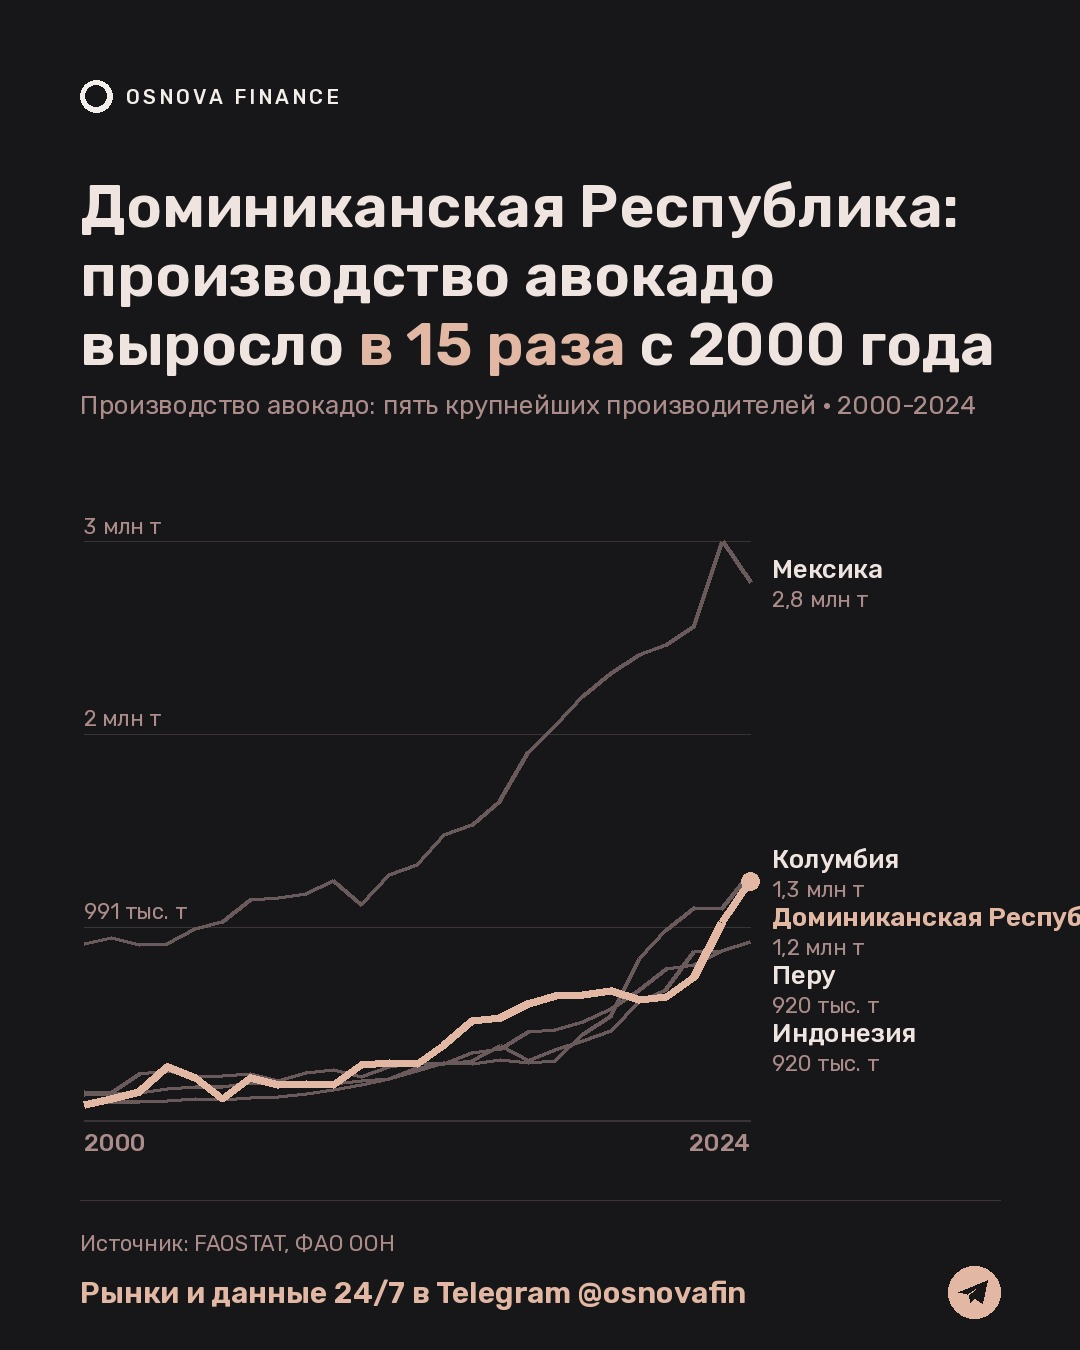
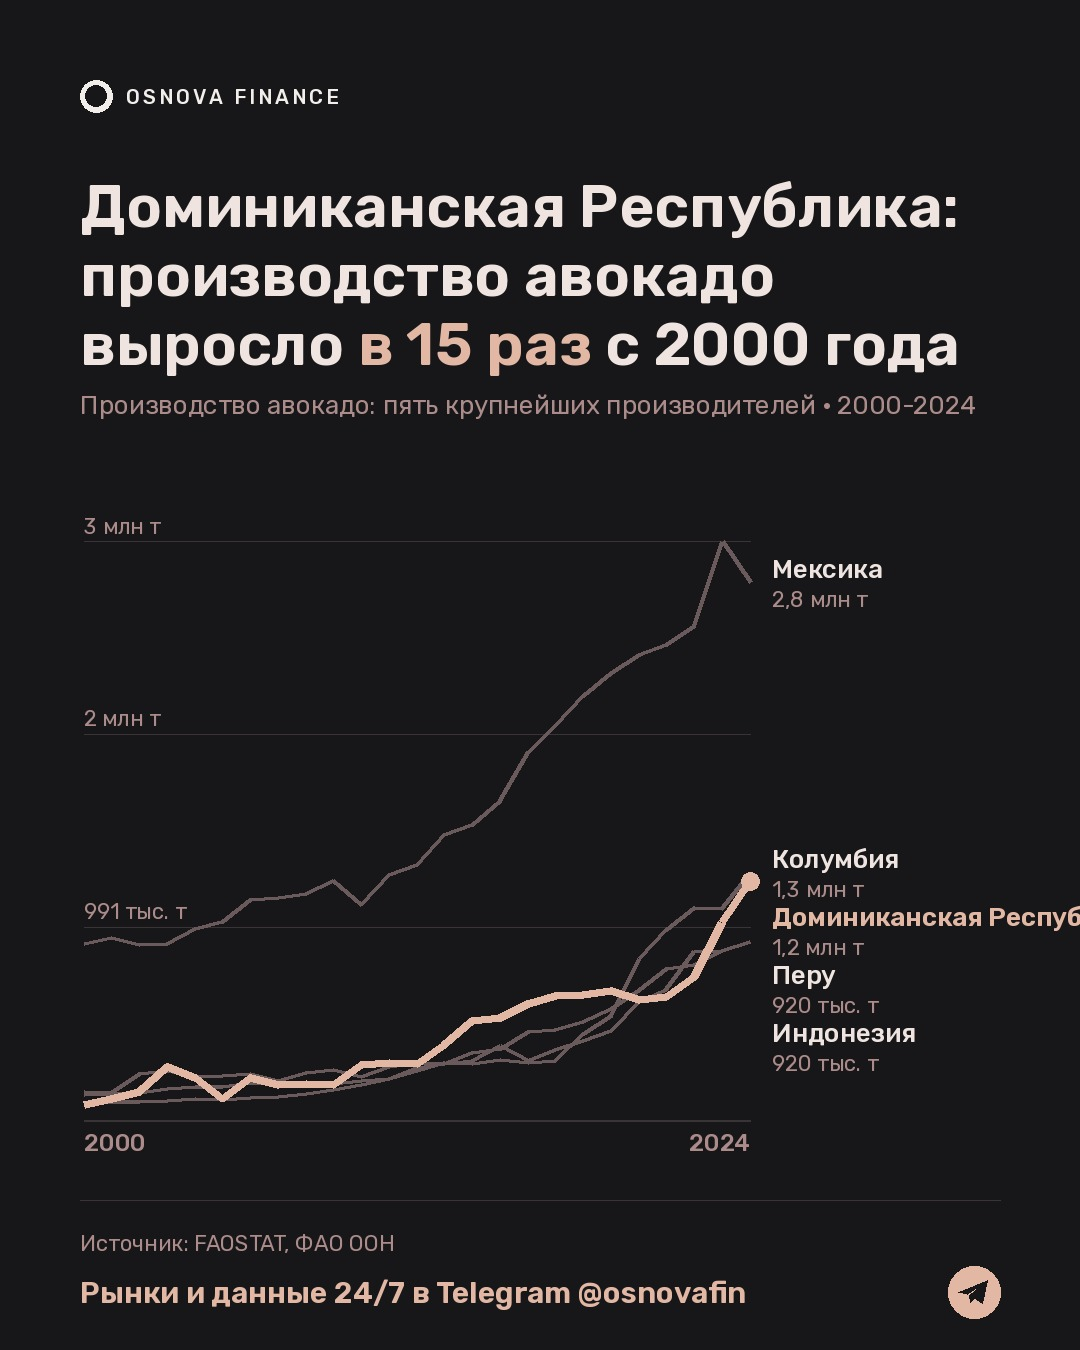
bank: update [skip ci]

Changed region(s): [[0.55, 0.2178, 0.9167, 0.28]]

diff --git a/bank/threads.md b/bank/threads.md
@@ -1113,15 +1113,15 @@ FAOSTAT · #данные
 Рынки и данные 24/7 в Telegram @osnovafin, ссылка в профиле.
 FAOSTAT · #данные
 
-## line_agro_prod_572 (489 симв.)
+## line_agro_prod_572 (486 симв.)
 
-Доминиканская Республика: производство авокадо выросло в 15 раза с 2000 года.
+Доминиканская Республика: производство авокадо выросло в 15 раз с 2000 года.
 
 Производство авокадо: пять крупнейших производителей · 2000-2024
 1. 🇲🇽 Мексика · 2,8 млн т, рост в 3 раза
 2. 🇨🇴 Колумбия · 1,3 млн т, рост в 9,6 раза
-3. 🇩🇴 Доминиканская Республика · 1,2 млн т, рост в 15 раза
-4. 🇵🇪 Перу · 920 тыс. т, рост в 11 раза
+3. 🇩🇴 Доминиканская Республика · 1,2 млн т, рост в 15 раз
+4. 🇵🇪 Перу · 920 тыс. т, рост в 11 раз
 5. 🇮🇩 Индонезия · 920 тыс. т, рост в 6,3 раза
 
 Кого не хватает в топе, по-вашему?
@@ -2042,13 +2042,13 @@ World Bank · #данные
 Рынки и данные 24/7 в Telegram @osnovafin, ссылка в профиле.
 World Bank · #данные
 
-## line_cis_bx_trf_pwkr_cd_dt (468 симв.)
+## line_cis_bx_trf_pwkr_cd_dt (467 симв.)
 
 Узбекистан: переводы мигрантов выросли в 20,6 раза с 2005 года.
 
 Переводы мигрантов в страны Центральной Азии и Кавказа · 2005-2025
 1. 🇺🇿 Узбекистан · $21,1 млрд, рост в 20,6 раза
-2. 🇹🇯 Таджикистан · $10,2 млрд, рост в 18 раза
+2. 🇹🇯 Таджикистан · $10,2 млрд, рост в 18 раз
 3. 🇬🇪 Грузия · $4,3 млрд, рост в 9,6 раза
 4. 🇦🇲 Армения · $1,6 млрд, рост в 1,7 раза
 5. 🇦🇿 Азербайджан · $1,5 млрд, рост в 2,4 раза
